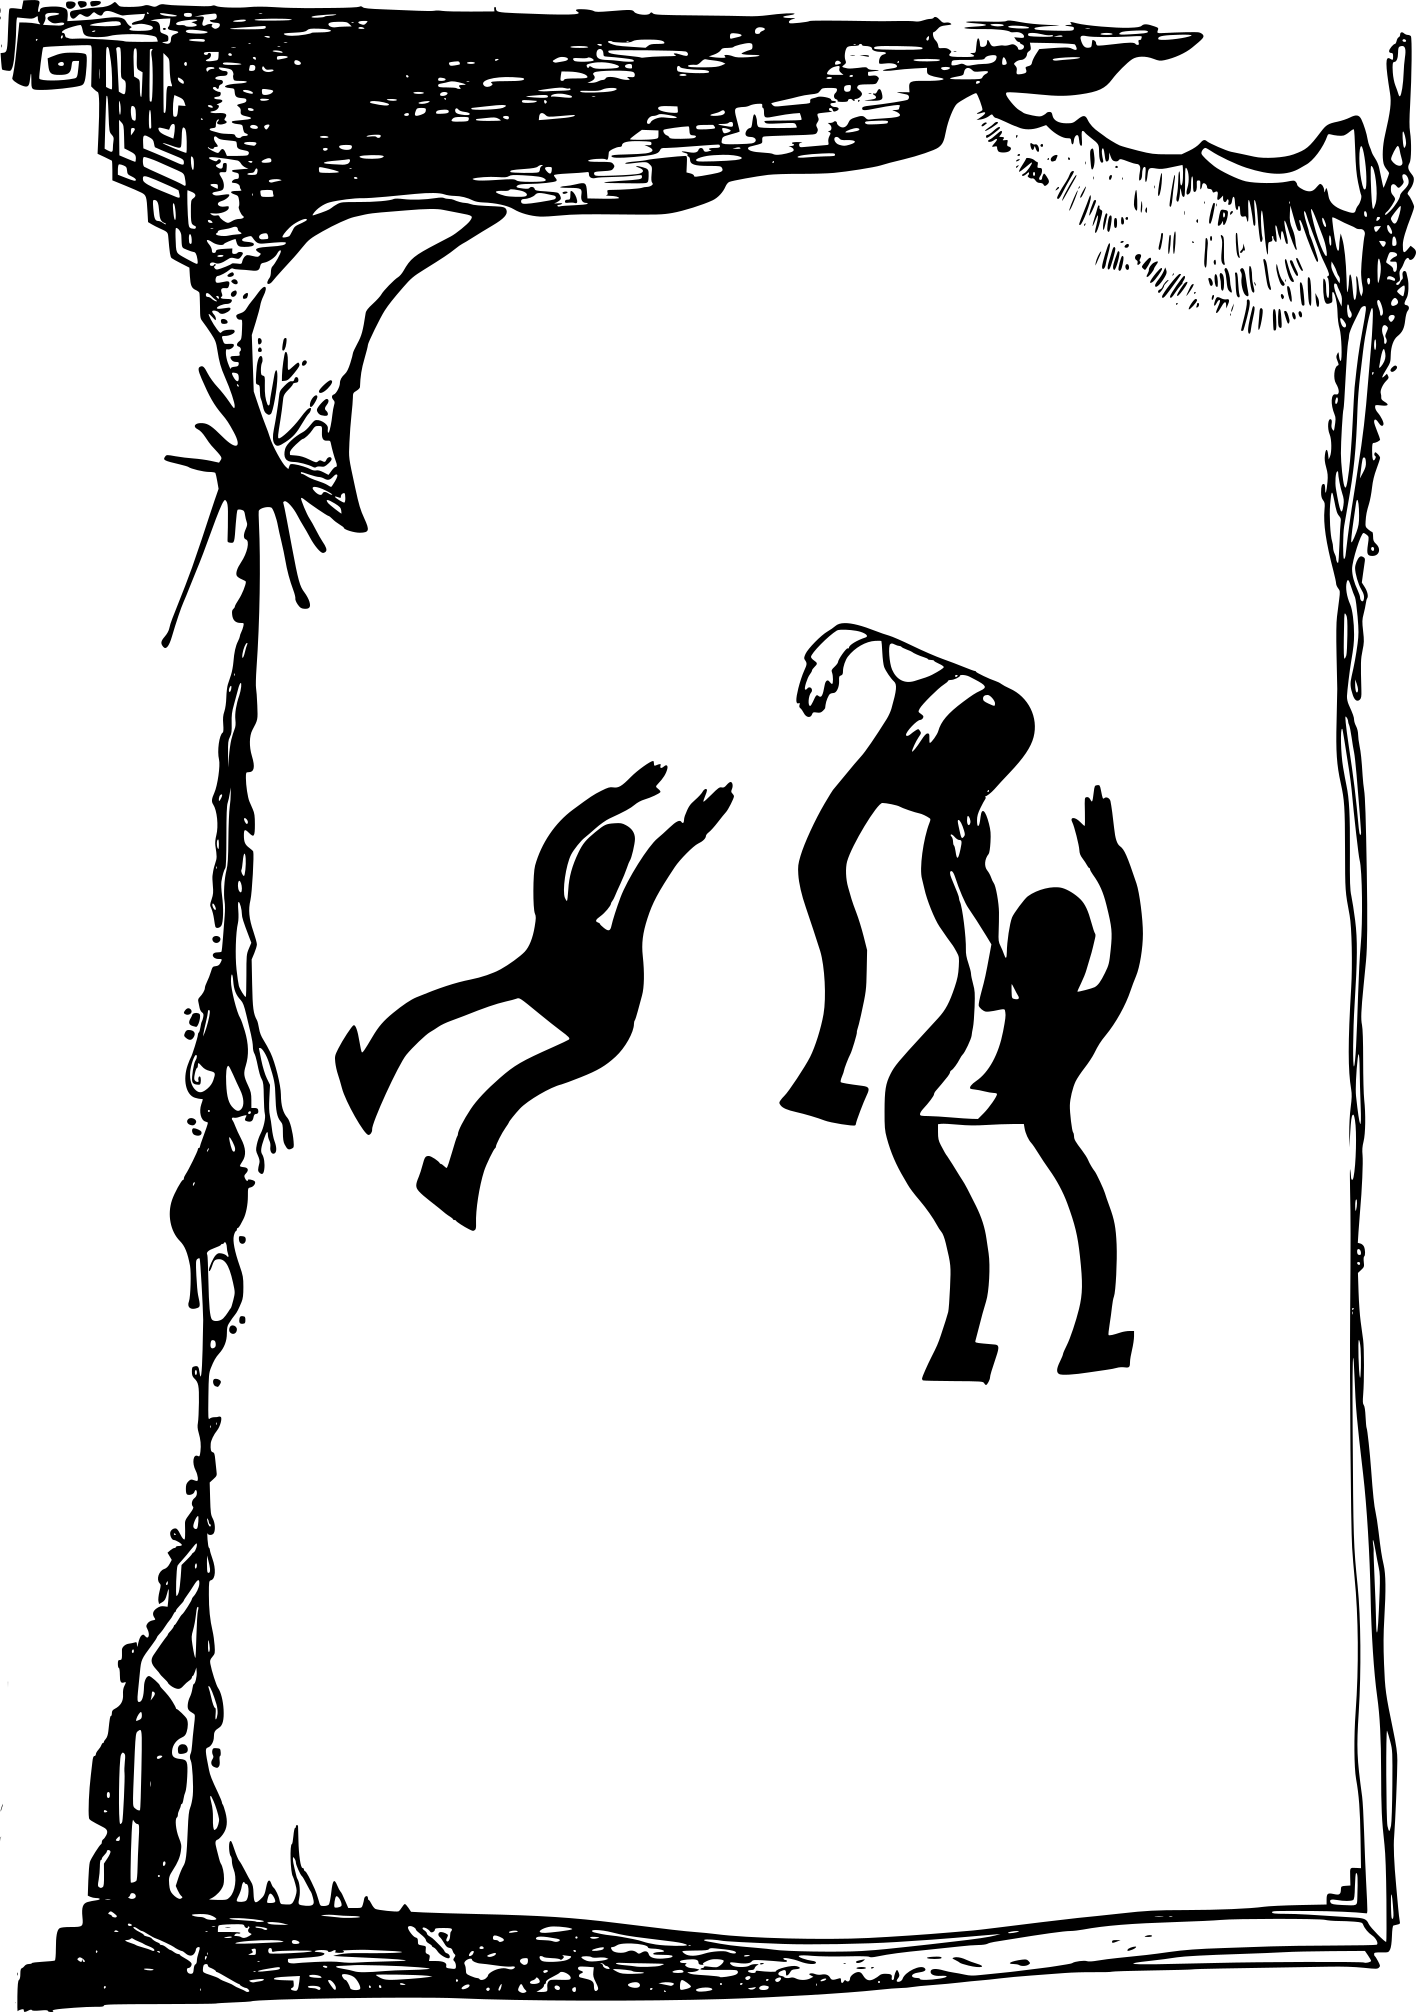
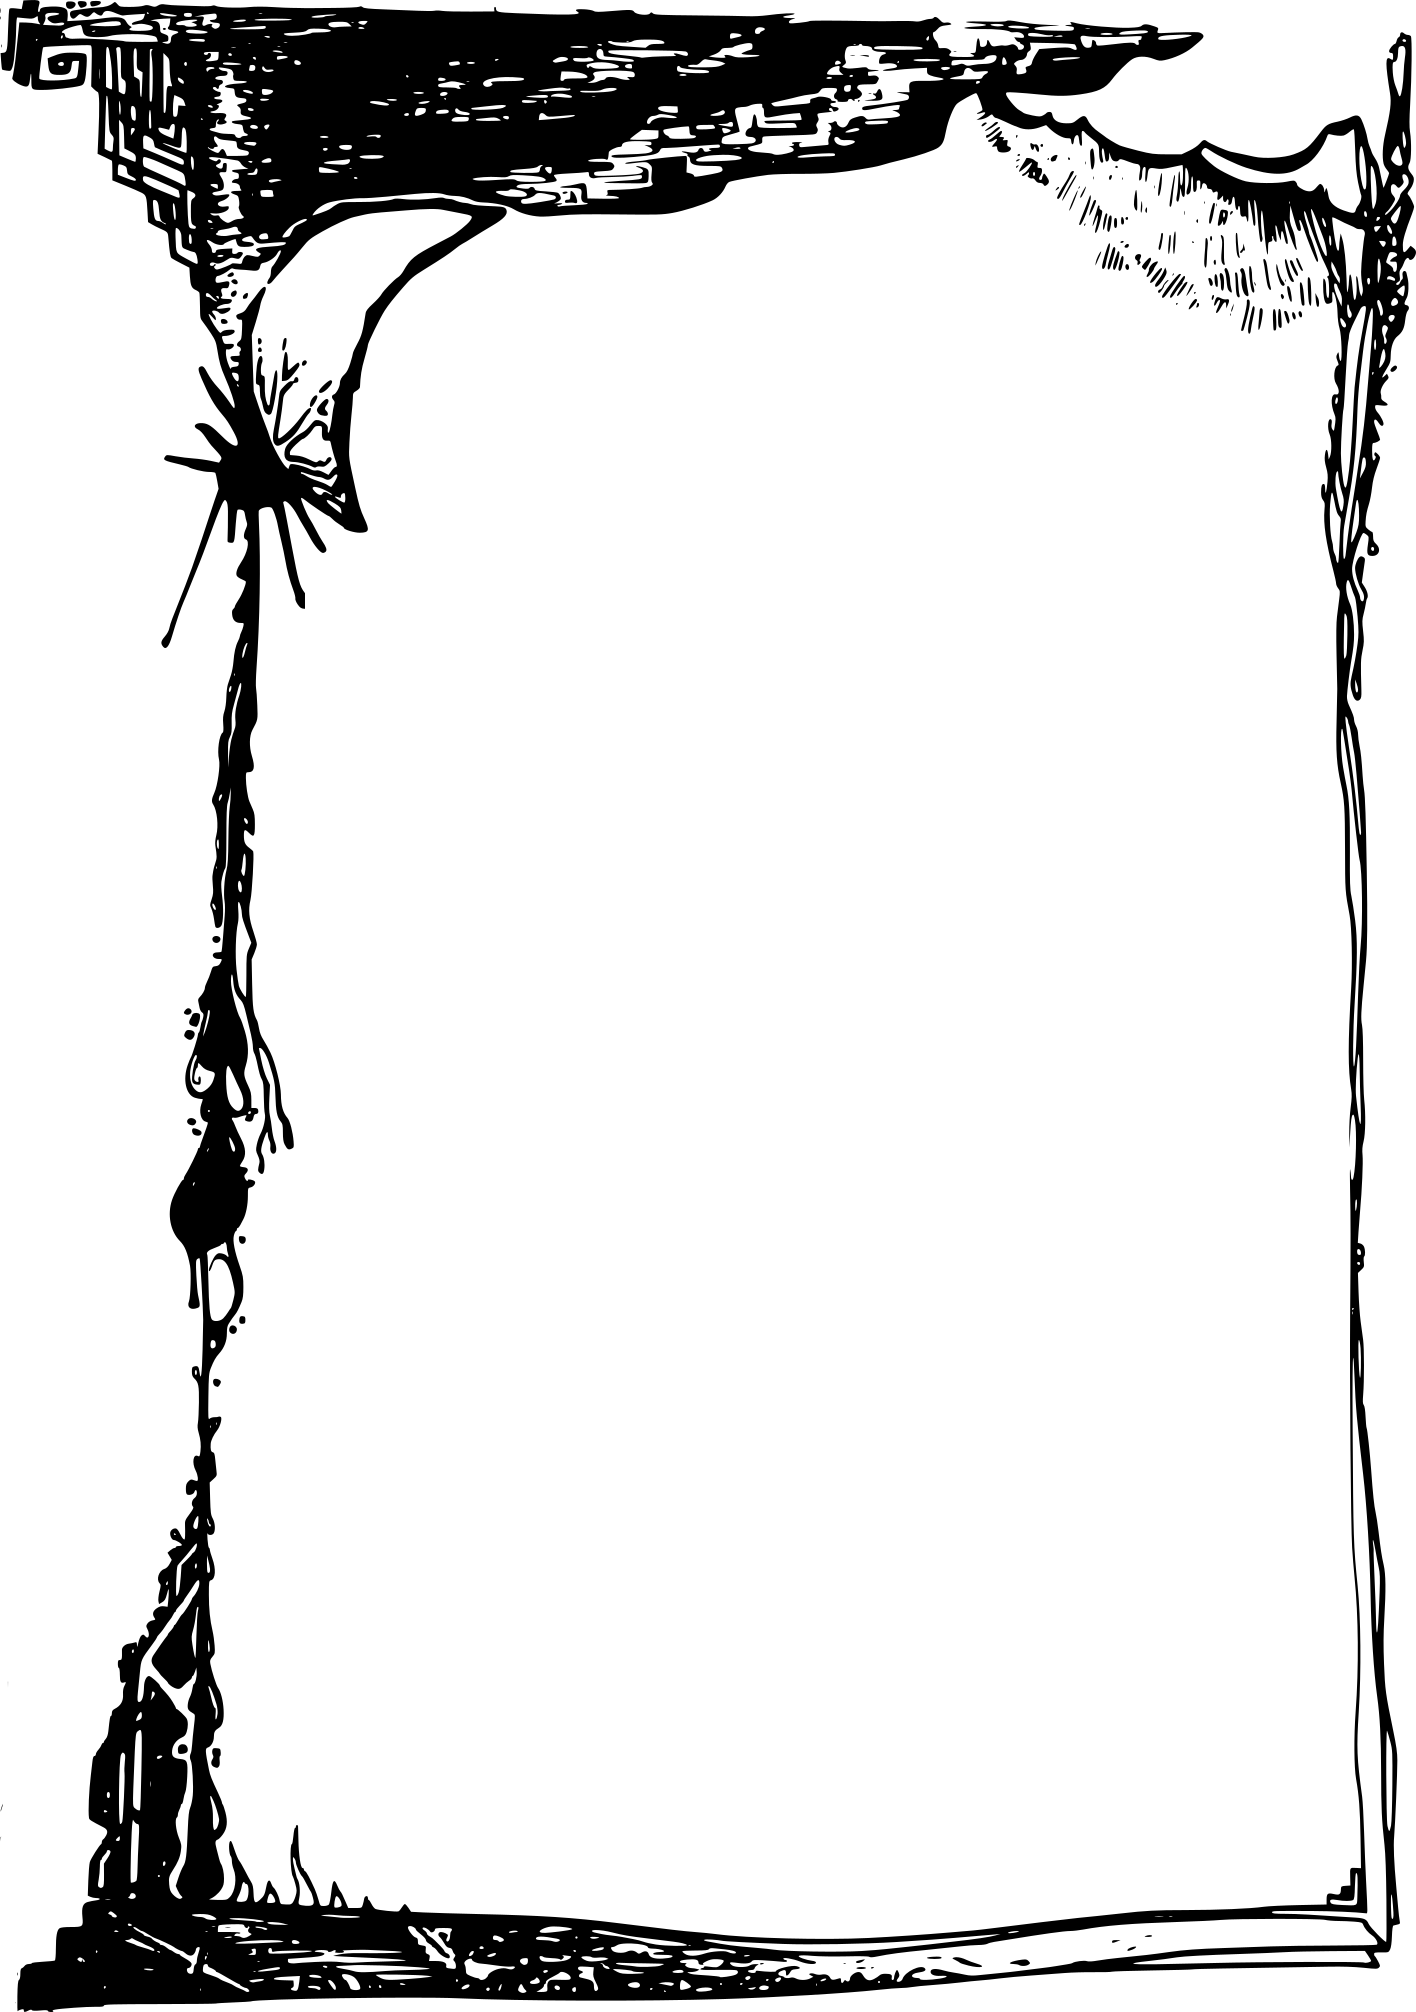
Redo the audio player frame as a real cutout, not an overlay
Erase the falling figures from audio-frame.png (now reused separately on
the video page), enlarge and shift the border art left, and clip-path the
Bandcamp iframe itself so it only shows inside the drawing's interior
instead of just painting ink on top of it.

Also: enlarge the video page's figures, and make the comodoro page fit a
single mobile screen with no page scroll (it has one more nav badge than
other pages, so the fixed-nav reserve needed its own sizing; cap the frame
by available viewport height too, and scale its text/gap down to match).

Changed region(s): [[0.5593, 0.3082, 0.8079, 0.7087], [0.2175, 0.3698, 0.5282, 0.6163]]

diff --git a/styles.css b/styles.css
@@ -93,7 +93,7 @@ nav.menu a:hover, nav.menu a:focus-visible { opacity: .6; }
 /* le cartouche : bande vide entre les deux filets ornés en haut du cadre */
 .frame-title { position: absolute; left: 3.58%; top: 4.68%; width: 88.65%; height: 5.26%; display: flex; align-items: center; justify-content: center; }
 .frame-title img { max-width: 100%; max-height: 100%; object-fit: contain; }
-.frame-content { position: absolute; inset: 13%; overflow: auto; -webkit-overflow-scrolling: touch; display: flex; flex-direction: column; align-items: center; justify-content: center; gap: 1.3rem; text-align: center; }
+.frame-content { position: absolute; inset: 13%; overflow: auto; -webkit-overflow-scrolling: touch; display: flex; flex-direction: column; align-items: center; justify-content: center; gap: 1.3rem; text-align: center; container-type: inline-size; }
 .codex-art-mobile { box-sizing: border-box; display: none; border: 3px solid #000; box-shadow: 0 4px 14px rgba(0,0,0,.25); }
 @media (max-width: 640px) {
   /* sur petit écran, le contenu dépasse souvent la zone du cadre ; en le
@@ -135,16 +135,18 @@ nav.menu a:hover, nav.menu a:focus-visible { opacity: .6; }
 }
 .content-link:hover, .content-link:focus-visible { color: #000; }
 
-/* dessin encré (silhouettes qui tombent) posé en débordement sur le lecteur
-   Bandcamp, comme un cadre qui mord sur ses bords. Fond blanc détouré en
-   transparence (voir audio-frame.png) ; pointer-events:none pour que le
-   lecteur reste cliquable dessous. */
+/* cadre encré (juste les filets/coins, les silhouettes ont été effacées de
+   audio-frame.png) posé en débordement sur le lecteur Bandcamp. Le lecteur
+   est découpé (clip-path, pas juste recouvert) pour ne plus apparaître que
+   dans la zone intérieure du dessin ; pointer-events:none sur le cadre pour
+   que le lecteur reste cliquable dessous. */
 .bandcamp-wrap { position: relative; width: 100%; max-width: 450px; margin: 0 auto; flex-shrink: 0; }
+.bandcamp-player { clip-path: inset(9% 5% 4% 16%); }
 .bandcamp-frame {
-  position: absolute; top: 50%; left: 50%; transform: translate(-50%, -50%);
-  height: 104%; width: auto;
-  max-width: calc(min(96vw, 1100px) * 0.74 * 0.92);
-  max-height: calc(min(96vw, 1100px) * 0.74 * 0.92 * 1.421);
+  position: absolute; top: 50%; left: 38%; transform: translate(-50%, -50%);
+  height: 130%; width: auto;
+  max-width: calc(min(96vw, 1100px) * 0.74 * 0.96);
+  max-height: calc(min(96vw, 1100px) * 0.74 * 0.96 * 1.421);
   pointer-events: none; z-index: 2;
 }
 
@@ -196,7 +198,7 @@ nav.menu a:hover, nav.menu a:focus-visible { opacity: .6; }
    audio) et le dessin de télé (réduit, lien youtube inséré dans l'écran)
    côte à côte en haut, puis le dessin des trois oiseaux en dessous. */
 .video-top-row { width: 100%; display: flex; align-items: flex-end; justify-content: center; gap: 1.2rem; }
-.video-figures { display: block; width: min(22%, 150px); height: auto; flex-shrink: 0; }
+.video-figures { display: block; width: min(34%, 230px); height: auto; flex-shrink: 0; }
 .tv-wrap { position: relative; width: min(27.5%, 180px); margin: 0; container-type: inline-size; }
 .tv-drawing { display: block; width: 100%; height: auto; }
 /* font-size en cqw (relatif à la largeur de .tv-wrap, pas du viewport) :
@@ -214,7 +216,11 @@ nav.menu a:hover, nav.menu a:focus-visible { opacity: .6; }
    déformant l'image au lieu de la mettre à l'échelle proportionnellement. */
 @media (max-width: 640px) {
   .contact-art, .video-art { width: auto; height: auto; max-width: 70vw; max-height: 55vw; }
-  .comodoro-art { width: auto; height: auto; max-width: 50vw; max-height: 24vw; }
+  /* en %, pas en vw : .comodoro-art doit aussi rester à l'échelle quand
+     .frame-page est plafonné par la hauteur d'écran (page comodoro), pas
+     seulement par la largeur — un % du cadre suit les deux cas, un vw
+     (lié au viewport) ne suivrait que le premier. */
+  .comodoro-art { width: auto; height: auto; max-width: 50%; max-height: 24%; }
   .codex-art-mobile { display: block; width: auto; height: auto; max-width: 70vw; max-height: 50vw; }
   .bandcamp-player { height: min(900px, max(180px, calc(min(96vw, 1100px) * 1.0457 - 140px))); }
 }
@@ -229,8 +235,26 @@ nav.menu a:hover, nav.menu a:focus-visible { opacity: .6; }
      (bug constaté : 0x0). Une largeur directe en vw garde le calcul de la
      hauteur (height:auto sur l'image à l'intérieur) simple et fiable. */
   .tv-wrap { width: 11.4vw; }
-  .video-figures { width: auto; max-width: 9vw; max-height: 11vw; }
+  .video-figures { width: auto; max-width: 14vw; max-height: 17vw; }
   .video-art { max-height: 46vw; }
   .comodoro-art { max-height: 18vw; }
   .contact-art { max-height: 40vw; }
+}
+
+/* page comodoro (mobile) : doit tenir sur un seul écran, sans aucun scroll.
+   Son bandeau de navigation a 7 badges (un de plus que les autres pages,
+   qui n'affichent pas de lien vers elles-mêmes), donc plus haut une fois
+   replié sur petit écran. On réduit d'autant la réserve de bas de page et,
+   surtout, on plafonne la taille du cadre lui-même à la hauteur d'écran
+   réellement disponible (100dvh tient compte de la barre du navigateur
+   mobile) : normalement le cadre ne dépend que de la largeur (aspect-ratio
+   fixe), ici on ajoute un troisième plafond basé sur la hauteur. */
+@media (max-width: 640px) {
+  body.comodoro-page:has(nav.menu) { padding-bottom: 230px; }
+  body.comodoro-page .frame-page { width: min(96vw, 1100px, calc((100dvh - 286px) / 1.4131)); }
+  /* idem pour le texte (cqw, relatif à la largeur réelle de .frame-content,
+     pas au viewport) : sur un écran très court, le cadre devient petit et
+     le texte à taille fixe ne tiendrait plus. */
+  body.comodoro-page .frame-content p { font-size: max(.8rem, 4.3cqw); }
+  body.comodoro-page .frame-content { gap: 3cqw; }
 }

diff --git a/comodoro.html b/comodoro.html
@@ -13,9 +13,9 @@
 <meta property="og:image" content="https://comodorosuleyman.github.io/accueil.jpg">
 <meta name="twitter:card" content="summary_large_image">
 <link rel="icon" type="image/png" href="favicon.png">
-<link rel="stylesheet" href="styles.css?v=38">
+<link rel="stylesheet" href="styles.css?v=39">
 </head>
-<body>
+<body class="comodoro-page">
 <div class="frame-page">
   <h1 class="visually-hidden">Comodoro Süleyman</h1>
   <div class="frame-title"><img src="comodoro-bw.svg" alt="Comodoro Süleyman"></div>

diff --git a/index.html b/index.html
@@ -13,7 +13,7 @@
 <meta property="og:image" content="https://comodorosuleyman.github.io/accueil.jpg">
 <meta name="twitter:card" content="summary_large_image">
 <link rel="icon" type="image/png" href="favicon.png">
-<link rel="stylesheet" href="styles.css?v=38">
+<link rel="stylesheet" href="styles.css?v=39">
 </head>
 <body class="home">
 <h1 class="visually-hidden">Comodoro Süleyman</h1>

diff --git a/argumentum.html b/argumentum.html
@@ -13,7 +13,7 @@
 <meta property="og:image" content="https://comodorosuleyman.github.io/accueil.jpg">
 <meta name="twitter:card" content="summary_large_image">
 <link rel="icon" type="image/png" href="favicon.png">
-<link rel="stylesheet" href="styles.css?v=38">
+<link rel="stylesheet" href="styles.css?v=39">
 </head>
 <body>
 <main class="argumentum-page">

diff --git a/agenda.html b/agenda.html
@@ -13,7 +13,7 @@
 <meta property="og:image" content="https://comodorosuleyman.github.io/accueil.jpg">
 <meta name="twitter:card" content="summary_large_image">
 <link rel="icon" type="image/png" href="favicon.png">
-<link rel="stylesheet" href="styles.css?v=38">
+<link rel="stylesheet" href="styles.css?v=39">
 </head>
 <body>
 <div class="frame-page">

diff --git a/audio.html b/audio.html
@@ -13,7 +13,7 @@
 <meta property="og:image" content="https://comodorosuleyman.github.io/accueil.jpg">
 <meta name="twitter:card" content="summary_large_image">
 <link rel="icon" type="image/png" href="favicon.png">
-<link rel="stylesheet" href="styles.css?v=38">
+<link rel="stylesheet" href="styles.css?v=39">
 </head>
 <body>
 <div class="frame-page">

diff --git a/codex.html b/codex.html
@@ -13,7 +13,7 @@
 <meta property="og:image" content="https://comodorosuleyman.github.io/accueil.jpg">
 <meta name="twitter:card" content="summary_large_image">
 <link rel="icon" type="image/png" href="favicon.png">
-<link rel="stylesheet" href="styles.css?v=38">
+<link rel="stylesheet" href="styles.css?v=39">
 </head>
 <body>
 <div class="frame-page">

diff --git a/contact.html b/contact.html
@@ -13,7 +13,7 @@
 <meta property="og:image" content="https://comodorosuleyman.github.io/accueil.jpg">
 <meta name="twitter:card" content="summary_large_image">
 <link rel="icon" type="image/png" href="favicon.png">
-<link rel="stylesheet" href="styles.css?v=38">
+<link rel="stylesheet" href="styles.css?v=39">
 </head>
 <body>
 <div class="frame-page">

diff --git a/video.html b/video.html
@@ -13,7 +13,7 @@
 <meta property="og:image" content="https://comodorosuleyman.github.io/accueil.jpg">
 <meta name="twitter:card" content="summary_large_image">
 <link rel="icon" type="image/png" href="favicon.png">
-<link rel="stylesheet" href="styles.css?v=38">
+<link rel="stylesheet" href="styles.css?v=39">
 </head>
 <body>
 <div class="frame-page">
